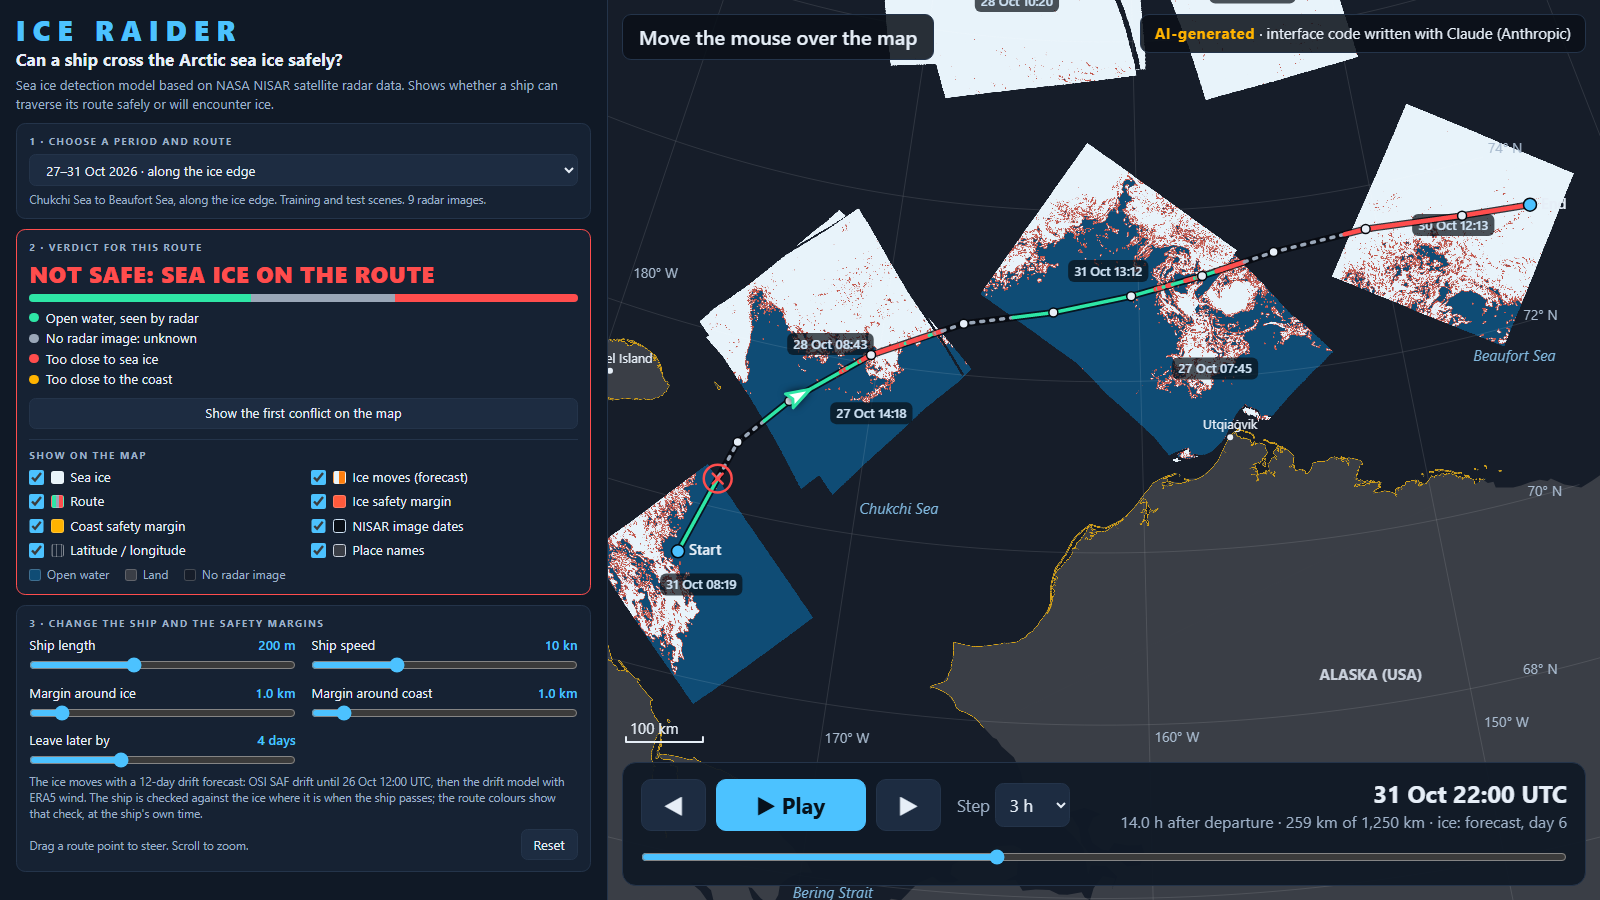
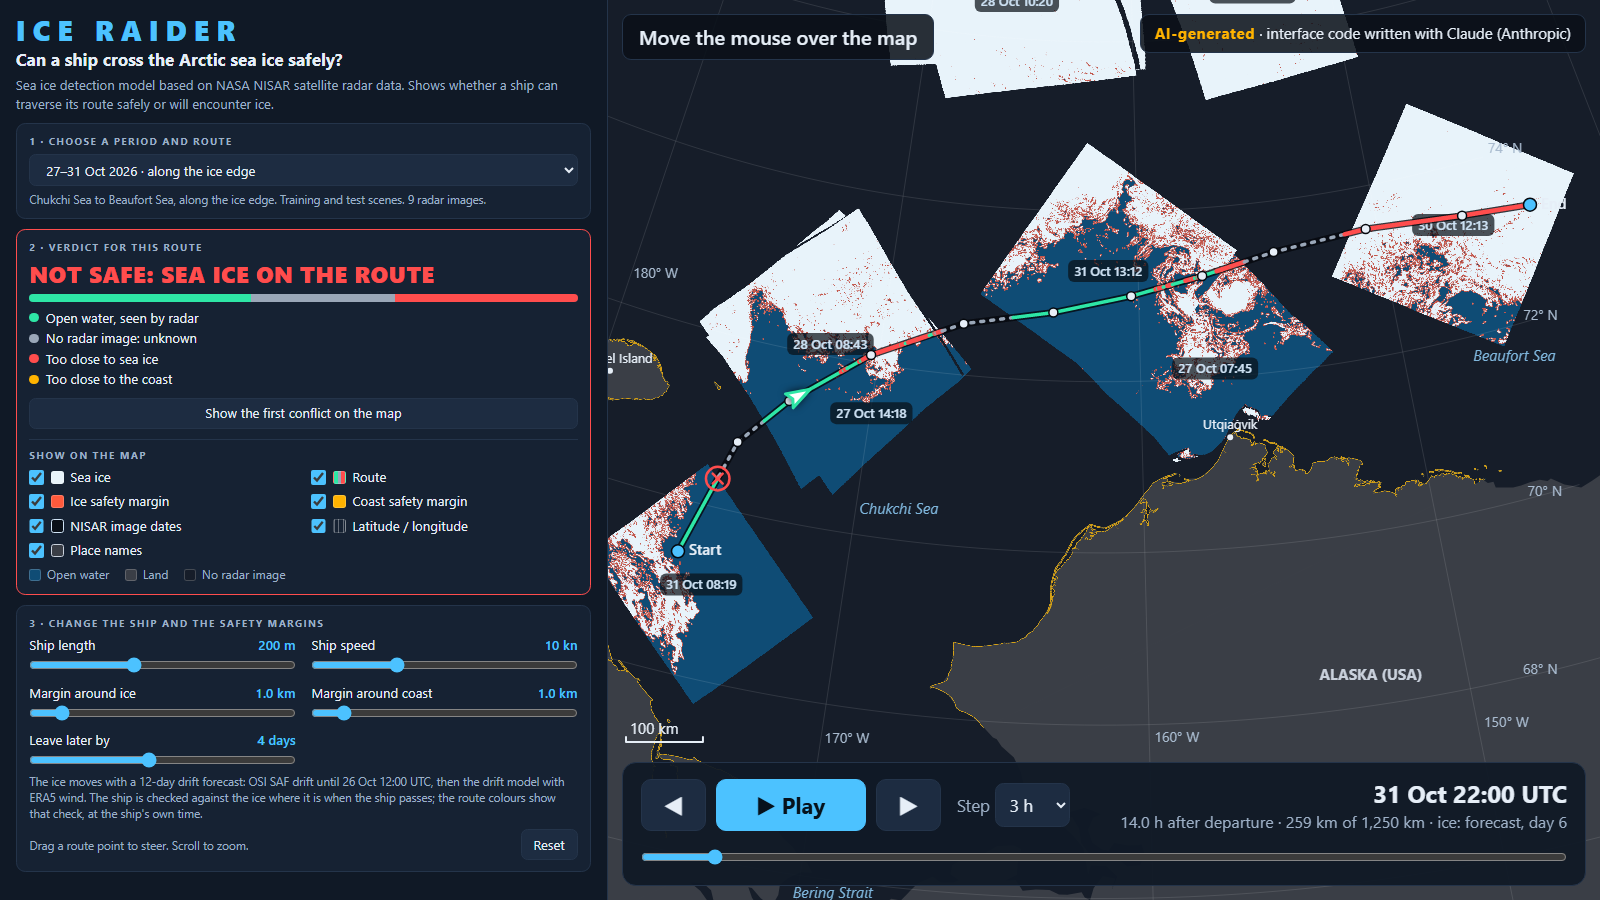
README: match the app after pull request #9 (no 'Ice moves' switch, delay up to the latest covered departure), new screenshots

diff --git a/README.md b/README.md
@@ -68,7 +68,8 @@ Details: [`docs/drift_forecast.md`](docs/drift_forecast.md).
 The NISAR ice maps of 27-31 Oct 2026 are stitched into one map. Every image drifts with the forecast from the moment
 it was taken, so the map shows where the ice is at any time in the next 12 days. The ship's route is checked point by
 point at the ship's own time, against the ice where it has drifted by then; the page draws the ice with the same
-formula the check uses. A **"Leave later by"** slider checks the same route on any of the next 12 days.
+formula the check uses. A **"Leave later by"** slider checks the same route on a later day, up to the latest
+departure for which the forecast still covers the whole trip.
 
 ![Leaving 4 days later: ice has drifted onto the start of the route](figures/app_leave_later.png)
 
@@ -85,8 +86,8 @@ pip install numpy pyproj
 python scripts/run_app.py          # opens http://127.0.0.1:8000/
 ```
 
-Then press **Play**, move **"Leave later by"**, drag a route point to steer around the ice, or switch
-**"Ice moves (forecast)"** off to compare with the static map. A link can open a given moment, e.g.
+Then press **Play**, move **"Leave later by"**, or drag a route point to steer around the ice. A link can open a
+given moment, e.g.
 `http://127.0.0.1:8000/#scenario=oct&delay=24&t=96` (one day later departure, clock at hour 96).
 More: [`docs/INTERFACE.md`](docs/INTERFACE.md).
 
